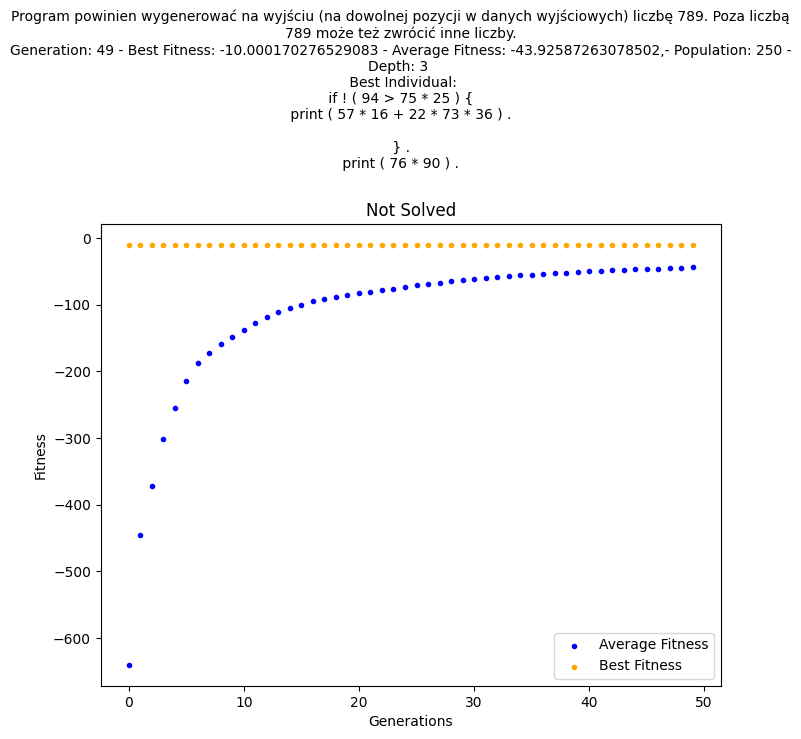
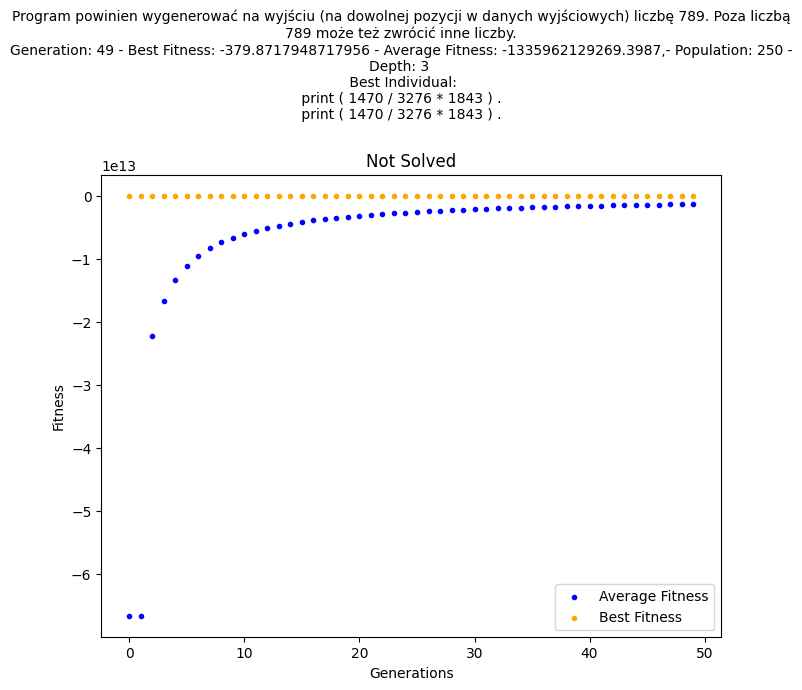
improving tests

diff --git a/gp/BiggerGP.py b/gp/BiggerGP.py
@@ -7,14 +7,14 @@ from gp.Stats import Stats
 class BiggerGP:
     """ Class executing genetic algorithm using simple custom programming language"""
 
-    def __init__(self, p_size: int = 250, depth: int = 3):
-        self.MAX_LEN: int = 2
+    def __init__(self, p_size: int = 500, depth: int = 4):
+        self.MAX_LEN: int = 4
         self.MAX_LOGIC_LEN: int = 5
         self.POP_SIZE: int = p_size
         self.DEPTH: int = depth
         self.GENERATIONS: int = 50
         self.MATCH_SIZE: int = 2
-        self.MUTATION_RATE: int = 5
+        self.MUTATION_RATE: int = 10
 
         self.pop_fitness: list = []
         self.population: list = []
@@ -162,7 +162,7 @@ class BiggerGP:
         for i in range(len(buffer)):  # choose some ints
             if buffer[i] == 2200:
                 index = len(self.int_literals) + 100000
-                self.int_literals[index] = random.randint(0, 100)  # can be changed
+                self.int_literals[index] = random.randint(0, 10000)  # can be changed
                 buffer[i] = index
 
         self.to_string(buffer)
@@ -180,6 +180,7 @@ class BiggerGP:
             self.population.append(self.generate_random_individual())
 
     def calculate_pop_fitness(self, fitness_f) -> None:
+        self.pop_fitness = []
         for specimen in self.population:
             self.pop_fitness.append(self.fitness(specimen, fitness_f))
 
@@ -196,7 +197,13 @@ class BiggerGP:
         return sum(self.pop_fitness) / len(self.pop_fitness)
 
     def get_best_individual(self) -> list:
-        index = self.pop_fitness.index(max(self.pop_fitness))
+        if len(self.pop_fitness) != len(self.population):
+            raise Exception("Population does not equal fitness")
+        max_fitness = max(self.pop_fitness, default=None)
+        if max_fitness is None:
+            index = 0
+        else:
+            index = self.pop_fitness.index(max_fitness)
         return self.population[index]
 
     """Swaps branches between parent1 and parent1"""
@@ -216,6 +223,14 @@ class BiggerGP:
 
     """Finds the beginning and end of the statement (branch) that will be swapped"""
 
+    def clean_individual(self, buffer):
+        result = copy.deepcopy(buffer)
+        for i in range(len(buffer)-2):
+            if buffer[i] == 1900 and buffer[i+1] == 1900:
+                result = result[:i] + result[i+1:]
+            elif buffer[i] == 1900 and buffer[i+1] != 2400:
+                result = result[:i] + [2400] + result[i:]
+        return result
     def find_index(self, specimen: []) -> tuple:
         indexes = [index for index, item in enumerate(specimen) if item in self.node_starts]
         for i in range(len(specimen) - 2):
@@ -372,10 +387,10 @@ class BiggerGP:
 if __name__ == "__main__":
     b = BiggerGP()
     specimen1 = b.generate_random_individual()
-    # print(b.to_string(specimen1))
-    specimen2 = b.generate_random_individual()
+    print(b.to_string(specimen1))
+    #specimen2 = b.generate_random_individual()
     # specimen3 =  b.generate_random_individual()
     # specimen4 =  b.generate_random_individual()
     # specimen5 =  b.generate_random_individual()
     # b.crossover(specimen1, specimen2)
-    b.mutation(specimen1)
+    #b.mutation(specimen1)

diff --git a/testing.py b/testing.py
@@ -36,7 +36,10 @@ def fitness_function_2(program):
         if 789 in output:
             return 0
         else:
-            return -10 * (1 / abs(max(output)) + 1)
+            if len(output) == 0:
+                return -10000
+            else:
+                return -10 * (sum([abs(x-789) for x in output])/10 + 1)
     except Exception as e:
         # print(e)
         return -1000
@@ -144,15 +147,15 @@ def test(function, ex: str, filename):
 
 
 if __name__ == '__main__':
-    test(fitness_function_1, "Program powinien wygenerować na wyjściu (na dowolnej pozycji w danych wyjściowych) "
-                             "liczbę 1. Poza liczbą 1 może też zwrócić inne liczby.", "1.1.A")
+    #test(fitness_function_1, "Program powinien wygenerować na wyjściu (na dowolnej pozycji w danych wyjściowych) "
+    #                       "liczbę 1. Poza liczbą 1 może też zwrócić inne liczby.", "1.1.A")
     test(fitness_function_2, "Program powinien wygenerować na wyjściu (na dowolnej pozycji w danych wyjściowych) "
                              "liczbę 789. Poza liczbą 789 może też zwrócić inne liczby.", "1.1.B")
-    test(fitness_function_3, "Program powinien wygenerować na wyjściu (na dowolnej pozycji w danych wyjściowych) "
-                             "liczbę 31415. Poza liczbą 31415 może też zwrócić inne liczby.", "1.1.C")
-    test(fitness_function_4, "Program powinien wygenerować na pierwszej pozycji na wyjściu liczbę 1. "
-                             "Poza liczbą 1 może też zwrócić inne liczby.", "1.1.D")
-    test(fitness_function_5, "Program powinien wygenerować na pierwszej pozycji na wyjściu liczbę 789. "
-                             "Poza liczbą 789 może też zwrócić inne liczby.", "1.1.E")
-    test(fitness_function_6, "Program powinien wygenerować na wyjściu liczbę jako jedyną liczbę 1. "
-                             "Poza liczbą 1 NIE powinien nic więcej wygenerować.", "1.1.F")
+    #test(fitness_function_3, "Program powinien wygenerować na wyjściu (na dowolnej pozycji w danych wyjściowych) "
+    #                         "liczbę 31415. Poza liczbą 31415 może też zwrócić inne liczby.", "1.1.C")
+    #test(fitness_function_4, "Program powinien wygenerować na pierwszej pozycji na wyjściu liczbę 1. "
+    #                         "Poza liczbą 1 może też zwrócić inne liczby.", "1.1.D")
+    #test(fitness_function_5, "Program powinien wygenerować na pierwszej pozycji na wyjściu liczbę 789. "
+    #                         "Poza liczbą 789 może też zwrócić inne liczby.", "1.1.E")
+    #test(fitness_function_6, "Program powinien wygenerować na wyjściu liczbę jako jedyną liczbę 1. "
+    #                         "Poza liczbą 1 NIE powinien nic więcej wygenerować.", "1.1.F")
